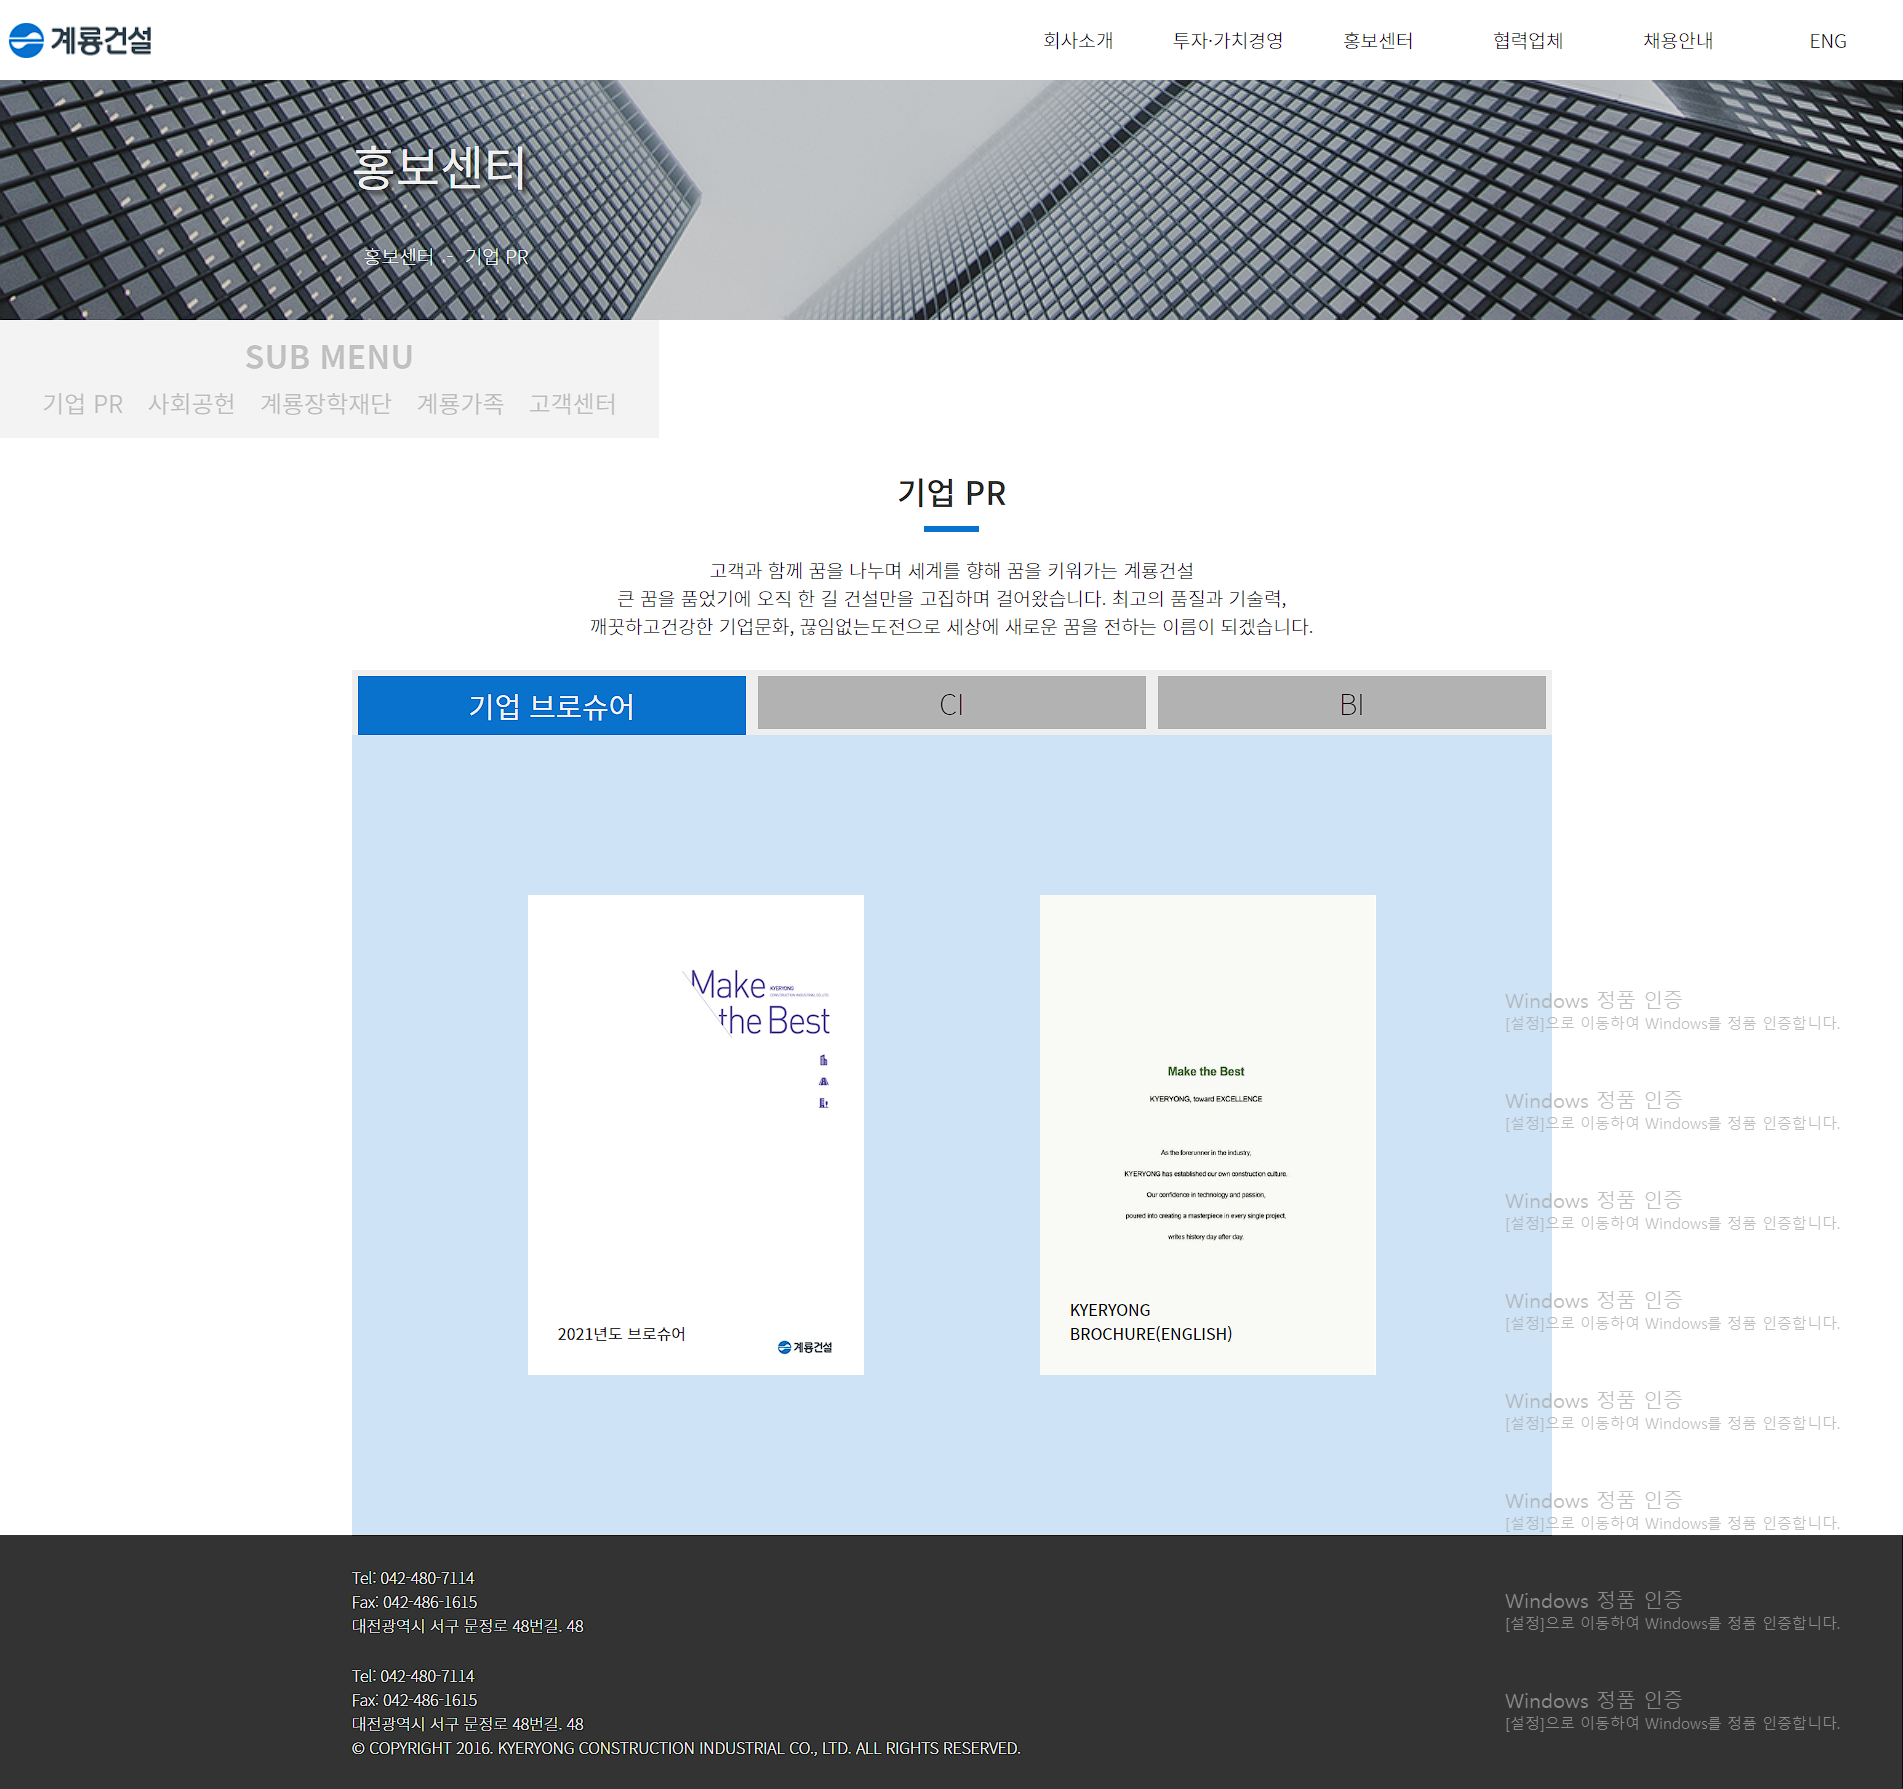
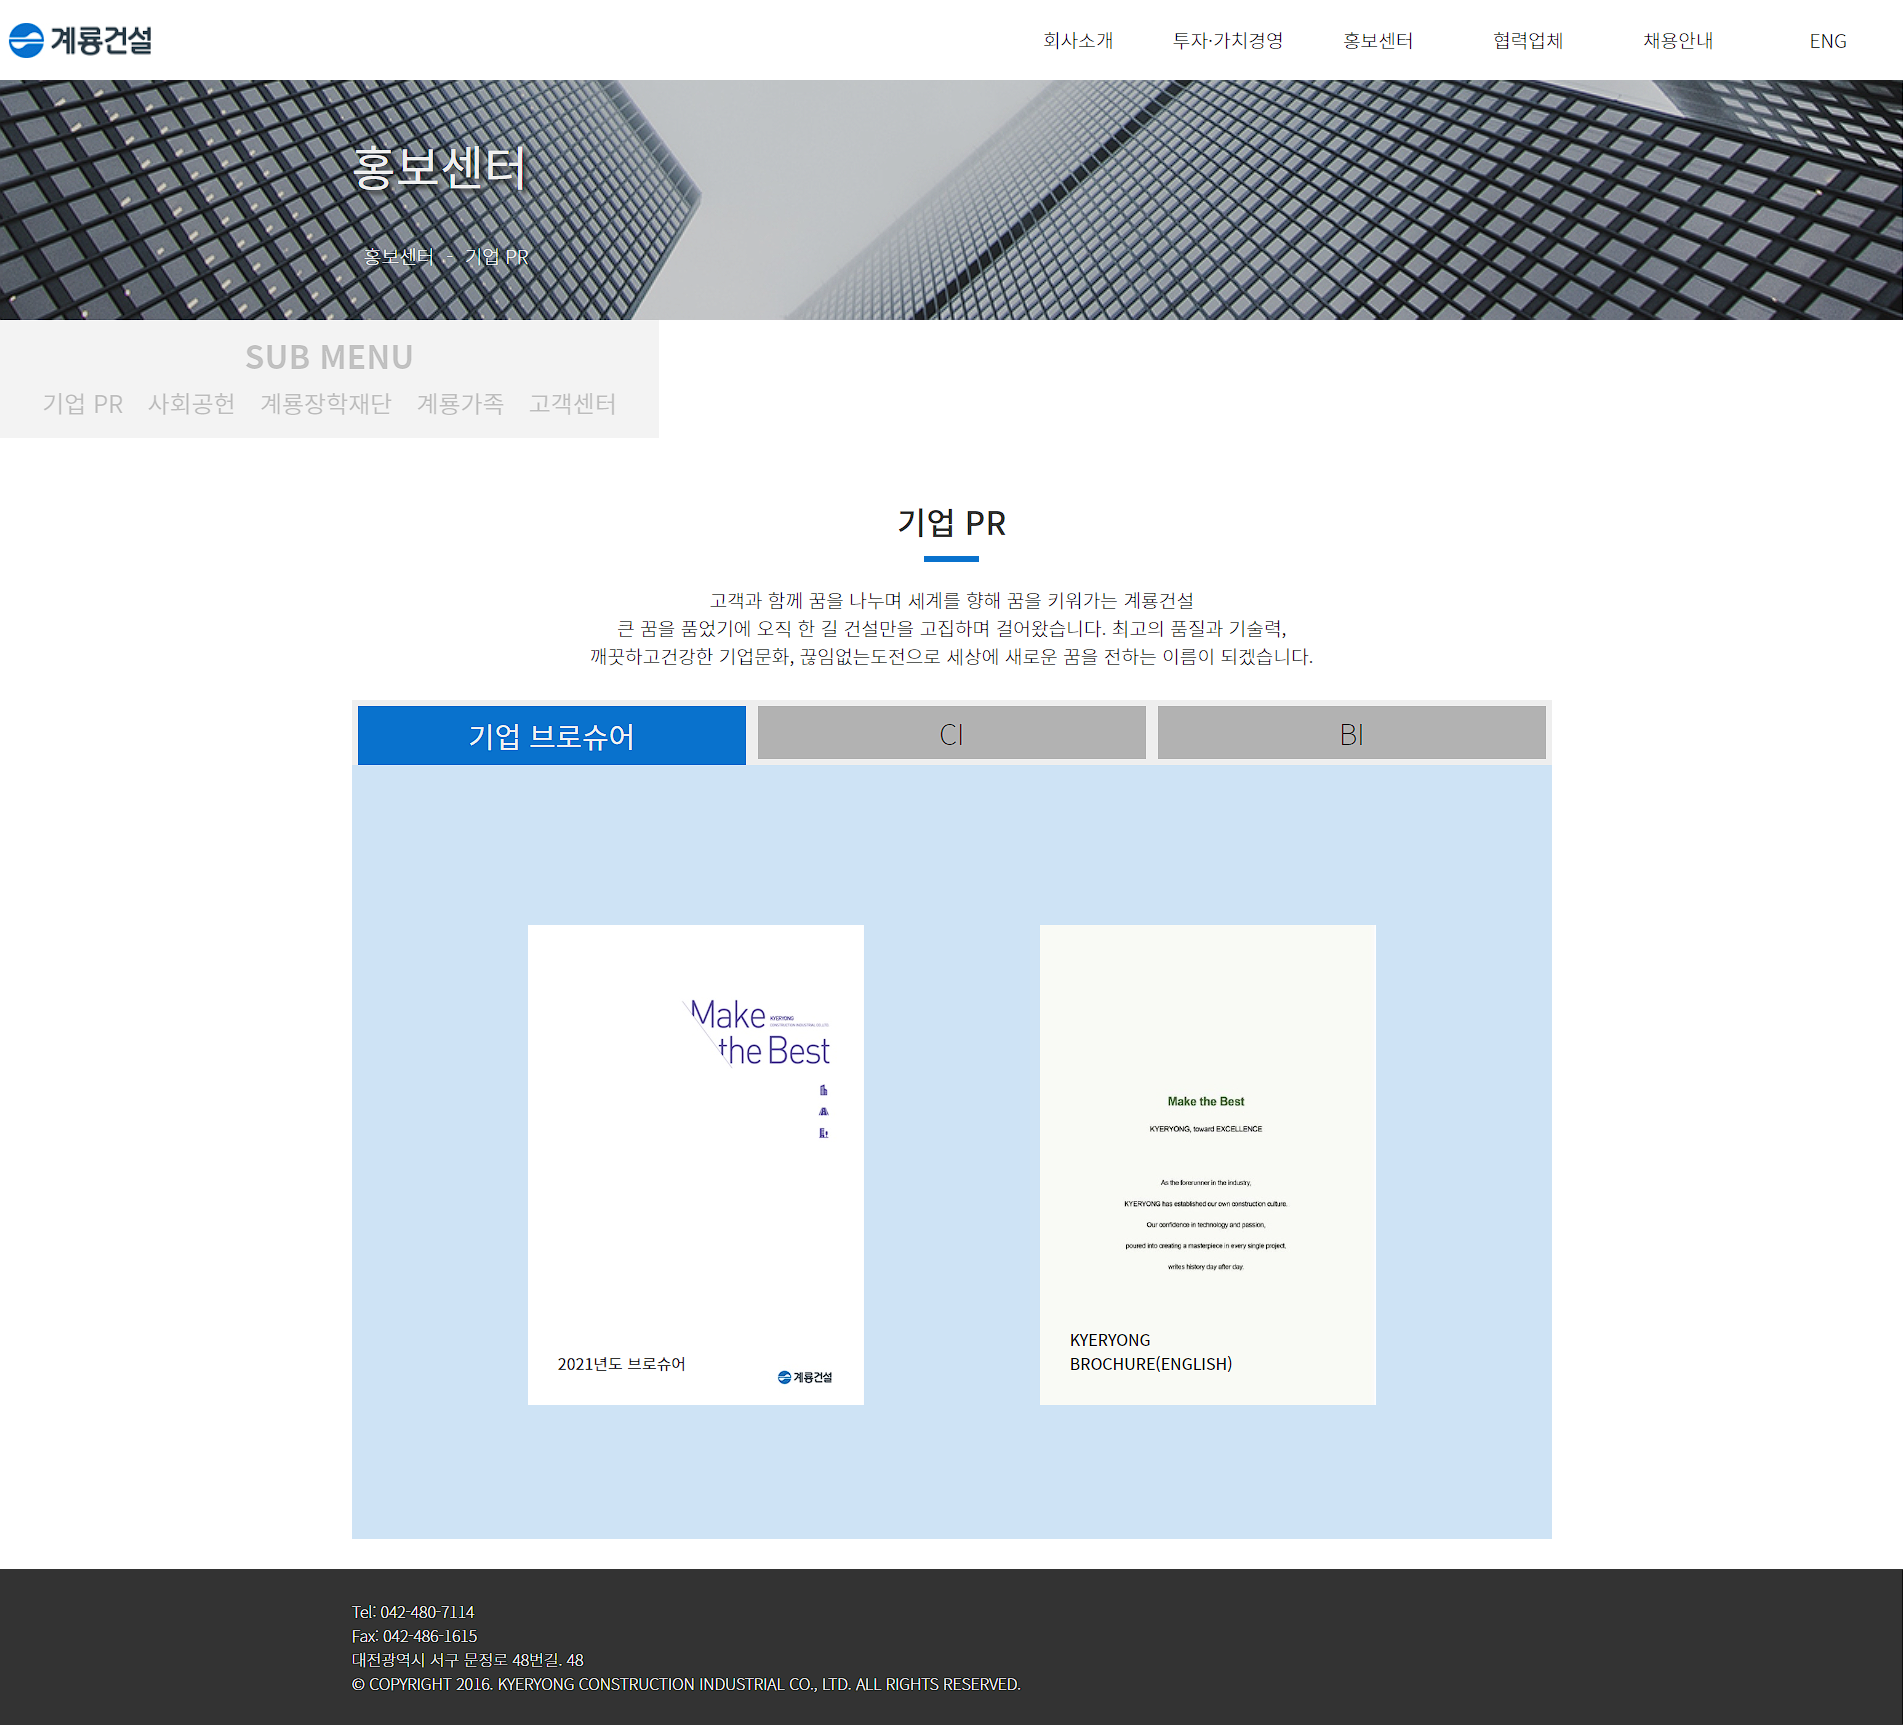
220721

diff --git a/css/index.css b/css/index.css
@@ -602,6 +602,7 @@ body > .line::before {
     font-size: 3rem; font-weight: 600;
     padding: 0 12px;
     background-color: red;
+    user-select: none;
 }
 
 .contents .error.load h2 {
@@ -614,4 +615,5 @@ body > .line::before {
     font-size: 1.5rem;
     letter-spacing: 0.2rem;
     text-align: center;
+    user-select: none;
 }

diff --git a/css/kr_pr_center.css b/css/kr_pr_center.css
@@ -4,6 +4,10 @@
 @import url('krconIeStyle.css');
 @import url('common.css');
 
+section {
+    padding: 30px;
+}
+
 section > div.inner > div:first-child {
     display: flex;
     flex-direction: column;
